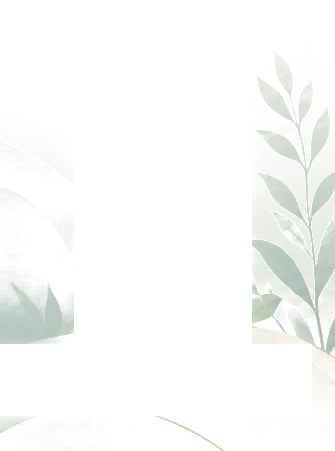
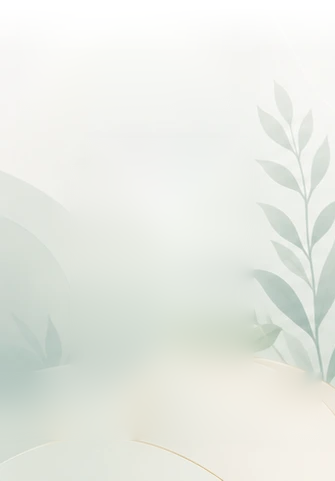
style(doctor): render reference-extracted art at correct geometry
Finish wiring the screenshot-extracted reference artwork and fix placement
so the dashboard reads as the approved reference at 1648x928.

- Sidebar botanical re-extracted to PRESERVE the faint oversized leaf
  impressions/blobs (only mascot/nav/pills removed, not keyed out); the
  layer is now position:fixed bottom-left so it frames the fixed mascot at
  the visible fold instead of sitting below it when the page scrolls.
  Doctor sidebar bg set to the reference's pale sage so the asset blends.
- Hero band height 204 -> 224 to match the reference; "Care today" tagline
  inset from the right (sm:mr-9rem) so it sits beside the stethoscope photo
  as in the reference, not over it.
- Hero/branch-strip continue to use the reference-extracted PNGs.

Validation (real doctor shell rendered at 1648x928 vs the approved
reference): doctor-art/comparisons/validation/{reference,current,
overlay-50,difference}.png. Key elements align within ~10px
(JAYA y649 vs ~640, PATIENTS y443 vs ~448, hero height matched).

Claude-Session: https://claude.ai/code/session_01CpNefs2vzw8Zem5GvWYBV5

diff --git a/apps/patient-portal/src/components/doctor/dashboard/CommandBand.tsx b/apps/patient-portal/src/components/doctor/dashboard/CommandBand.tsx
@@ -25,7 +25,7 @@ export function CommandBand({
   dateLabel: string;
 }) {
   return (
-    <header className="relative flex min-h-[204px] items-center overflow-hidden rounded-2xl border border-[color:var(--hd-border)] bg-gradient-to-br from-[color:var(--hd-champagne-tint)] via-[color:var(--hd-surface)] to-[color:var(--hd-surface)] px-6 py-8 shadow-[0_1px_2px_rgba(28,36,48,0.04)] sm:px-9">
+    <header className="relative flex min-h-[224px] items-center overflow-hidden rounded-2xl border border-[color:var(--hd-border)] bg-gradient-to-br from-[color:var(--hd-champagne-tint)] via-[color:var(--hd-surface)] to-[color:var(--hd-surface)] px-6 py-8 shadow-[0_1px_2px_rgba(28,36,48,0.04)] sm:px-9">
       <HeroArtwork />
 
       <div className="relative flex w-full flex-wrap items-center justify-between gap-x-8 gap-y-3">
@@ -51,7 +51,7 @@ export function CommandBand({
 
         <p
           style={{ fontFamily: "var(--hd-font-display)" }}
-          className="hidden max-w-[15rem] text-right text-xl italic leading-snug text-[color:var(--hd-text-secondary)] sm:block"
+          className="hidden max-w-[15rem] text-right text-xl italic leading-snug text-[color:var(--hd-text-secondary)] sm:block sm:mr-[9rem]"
         >
           Care today
           <br />

diff --git a/apps/patient-portal/src/components/app-shell/Sidebar.tsx b/apps/patient-portal/src/components/app-shell/Sidebar.tsx
@@ -48,7 +48,7 @@ export function Sidebar({
         className={cn(
           "fixed inset-y-0 left-0 z-40 flex flex-col text-sidebar-foreground border-r transition-transform duration-200 ease-out md:translate-x-0 md:static md:z-auto",
           isDoctor
-            ? "w-[320px] border-[#e7ddc9] bg-[#f5f2ea]"
+            ? "w-[320px] border-[#e7ddc9] bg-[#f2f5ef]"
             : "w-64 border-sidebar-border bg-sidebar",
           open ? "translate-x-0" : "-translate-x-full",
           isDoctor && "relative overflow-hidden",
@@ -56,9 +56,11 @@ export function Sidebar({
         aria-label="Primary"
       >
         {isDoctor && (
+          // Fixed to the viewport bottom-left (like the mascot) so the botanical
+          // always frames it at the visible fold, even when the page scrolls.
           <div
             aria-hidden
-            className="pointer-events-none absolute inset-x-0 bottom-0 z-0 h-[470px]"
+            className="pointer-events-none fixed bottom-0 left-0 z-0 hidden h-[472px] w-[320px] md:block"
             style={{
               backgroundImage: "url(/doctor-art/doctor-sidebar-botanical.png)",
               backgroundSize: "cover",
